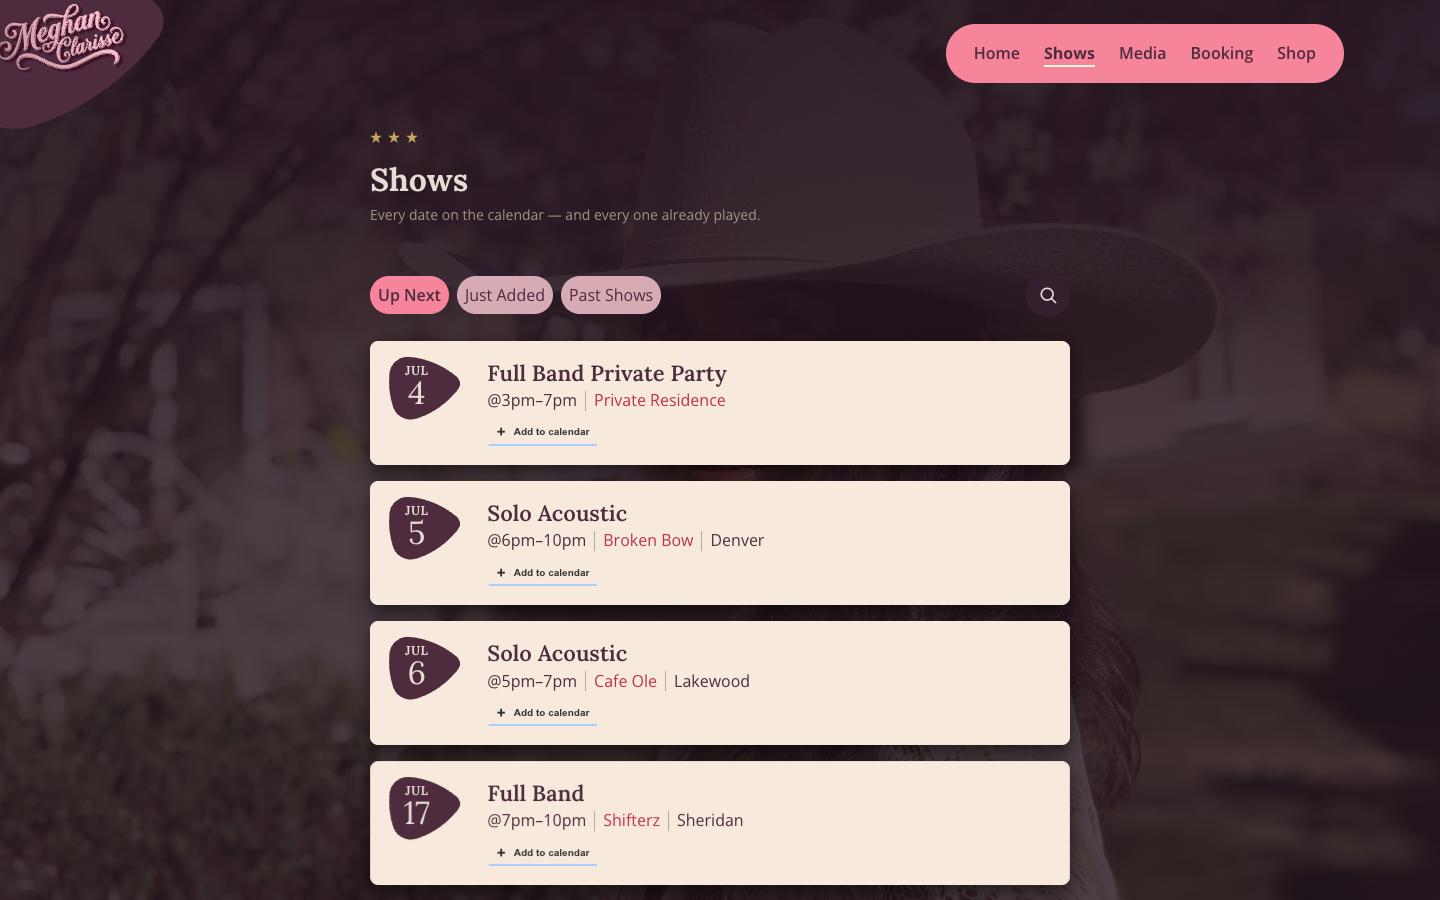
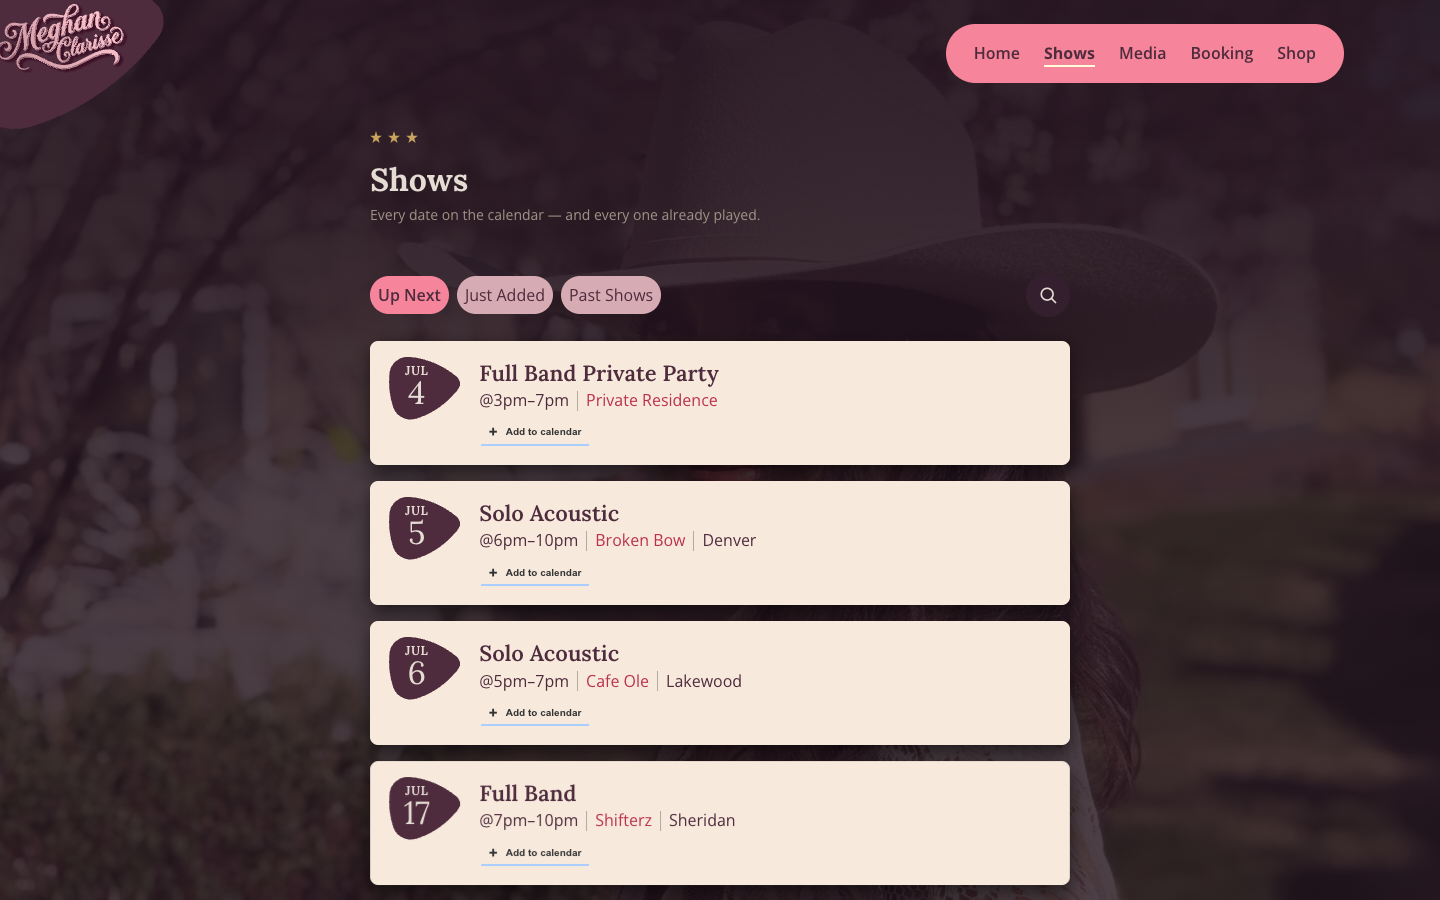
fix(shows): pull row copy another 8px left (now -16px)

diff --git a/src/components/ShowCard/ShowCard.module.css b/src/components/ShowCard/ShowCard.module.css
@@ -99,8 +99,8 @@
   flex-direction: column;
   gap: var(--mc-space-1);
   min-width: 0;
-  /* Pull the copy 8px closer to the pick. */
-  margin-left: -8px;
+  /* Pull the copy closer to the pick. */
+  margin-left: -16px;
 }
 
 .title {
